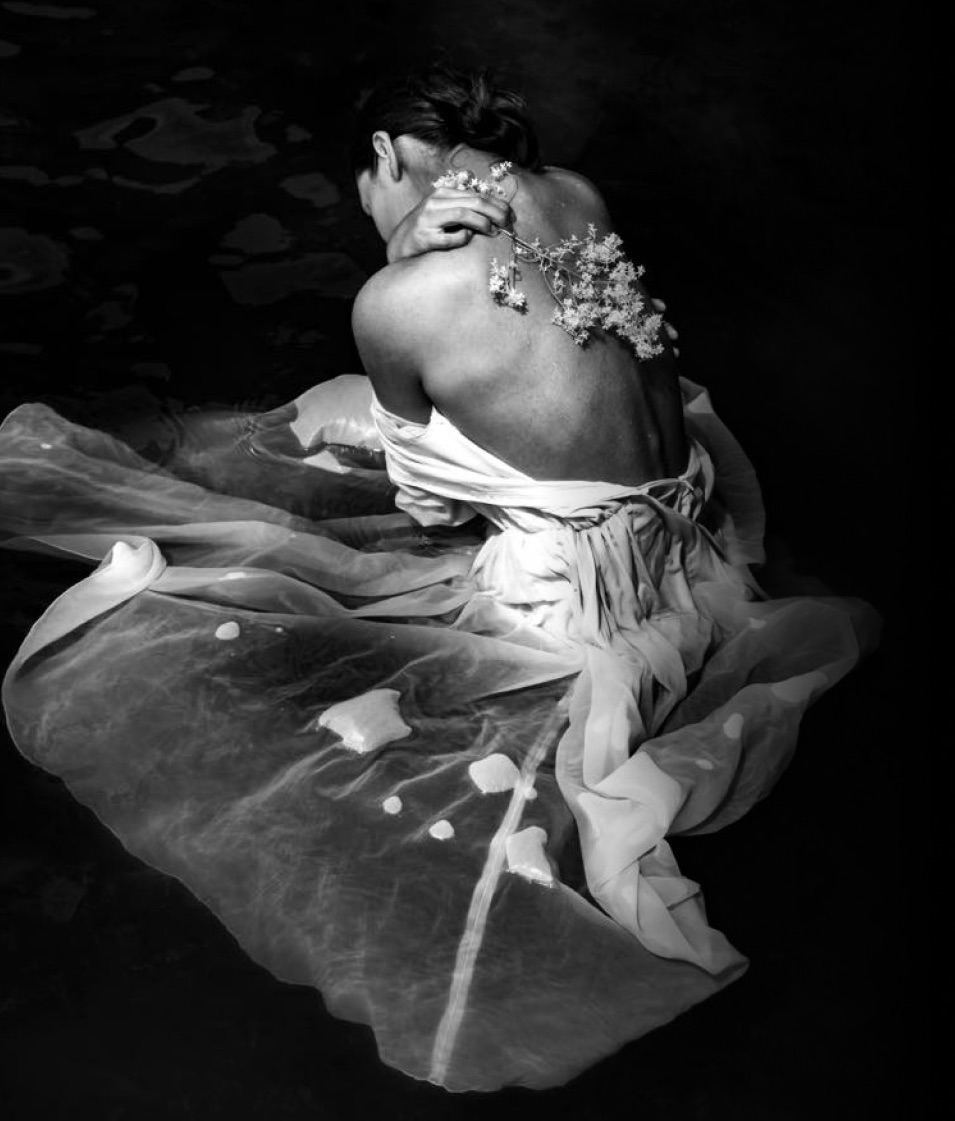
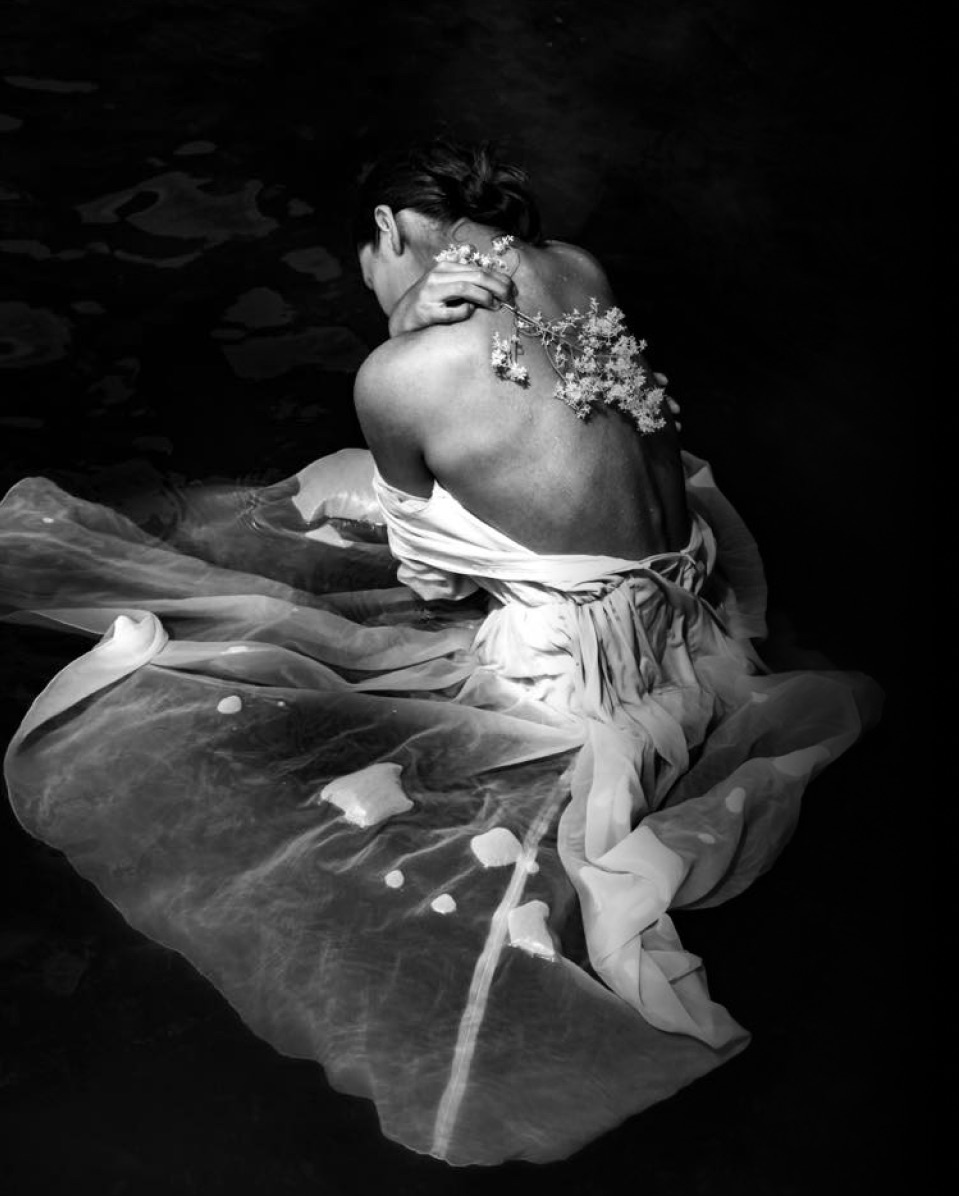
Changed Lading page

diff --git a/src/components/Home.tsx b/src/components/Home.tsx
@@ -12,8 +12,7 @@ function Home(props: IWindowProps): JSX.Element {
         fluid
         style={{
           backgroundColor: "black",
-          padding: "0px",
-          paddingTop: "4vh",
+          padding: "0px"
         }}
         id="Home"
       >
